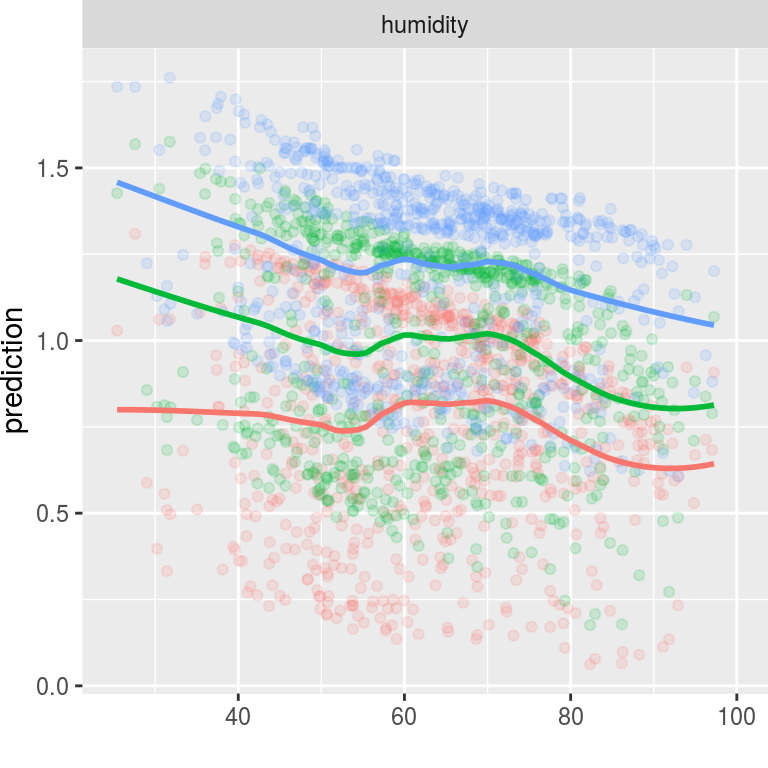
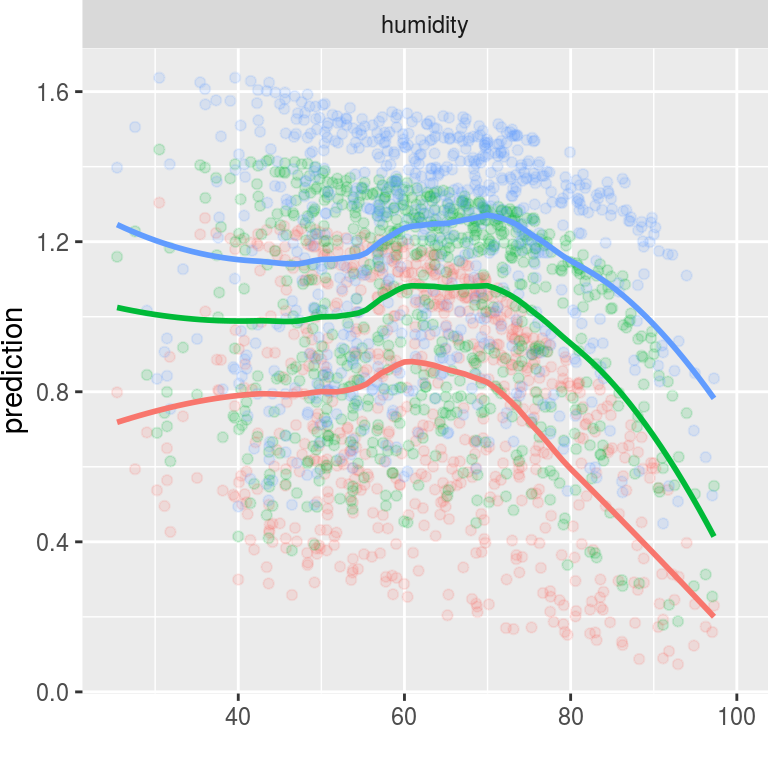
update docs

diff --git a/docs/reference/predict.vinereg.html b/docs/reference/predict.vinereg.html
@@ -59,7 +59,7 @@
       </button>
       <span class="navbar-brand">
         <a class="navbar-link" href="../index.html">vinereg</a>
-        <span class="label label-default" data-toggle="tooltip" data-placement="bottom" title="Released package">0.3.0</span>
+        <span class="label label-default" data-toggle="tooltip" data-placement="bottom" title="Released package">0.4.0</span>
       </span>
     </div>
 
@@ -139,7 +139,7 @@
     <tr>
       <th>alpha</th>
       <td><p>vector of quantile levels; <code>NA</code> predicts the mean based on an
-average of the <code>1:20 / 21</code>-quantiles.</p></td>
+average of the <code>1:10 / 11</code>-quantiles.</p></td>
     </tr>
     <tr>
       <th>uscale</th>
@@ -171,12 +171,12 @@ value of <code>alpha</code>.</p>
 (<span class='no'>fit</span> <span class='kw'>&lt;-</span> <span class='fu'><a href='vinereg.html'>vinereg</a></span>(<span class='no'>y</span> ~ <span class='no'>.</span>, <span class='no'>dat</span>))</div><div class='output co'>#&gt; D-vine regression model: y | x.2, x.1, z.1, z.2 
 #&gt; nobs = 100, edf = 26.03, cll = -13.55, caic = 79.16, cbic = 146.97 </div><div class='input'>
 <span class='co'># inspect model</span>
-<span class='fu'>summary</span>(<span class='no'>fit</span>)</div><div class='output co'>#&gt;   var      edf          cll        caic       cbic      p_value
-#&gt; 1   y 8.027953 -207.0306569  430.117220  451.03140           NA
-#&gt; 2 x.2 2.000000   76.6861624 -149.372325 -144.16198 4.961612e-34
-#&gt; 3 x.1 4.000000  115.7383306 -223.476661 -213.05598 6.348852e-49
-#&gt; 4 z.1 5.000000    0.7208254    8.558349   21.58420 9.197035e-01
-#&gt; 5 z.2 7.000000    0.3325232   13.334954   31.57114 9.985901e-01</div><div class='input'><span class='fu'><a href='plot_effects.html'>plot_effects</a></span>(<span class='no'>fit</span>)</div><div class='output co'>#&gt; <span class='message'>`geom_smooth()` using method = 'loess' and formula 'y ~ x'</span></div><div class='output co'>#&gt; <span class='warning'>Warning: pseudoinverse used at -0.005</span></div><div class='output co'>#&gt; <span class='warning'>Warning: neighborhood radius 1.005</span></div><div class='output co'>#&gt; <span class='warning'>Warning: reciprocal condition number  0</span></div><div class='output co'>#&gt; <span class='warning'>Warning: There are other near singularities as well. 1.01</span></div><div class='output co'>#&gt; <span class='warning'>Warning: pseudoinverse used at -0.005</span></div><div class='output co'>#&gt; <span class='warning'>Warning: neighborhood radius 1.005</span></div><div class='output co'>#&gt; <span class='warning'>Warning: reciprocal condition number  0</span></div><div class='output co'>#&gt; <span class='warning'>Warning: There are other near singularities as well. 1.01</span></div><div class='output co'>#&gt; <span class='warning'>Warning: pseudoinverse used at -0.005</span></div><div class='output co'>#&gt; <span class='warning'>Warning: neighborhood radius 1.005</span></div><div class='output co'>#&gt; <span class='warning'>Warning: reciprocal condition number  0</span></div><div class='output co'>#&gt; <span class='warning'>Warning: There are other near singularities as well. 1.01</span></div><div class='output co'>#&gt; <span class='warning'>Warning: pseudoinverse used at -0.005</span></div><div class='output co'>#&gt; <span class='warning'>Warning: neighborhood radius 1.005</span></div><div class='output co'>#&gt; <span class='warning'>Warning: reciprocal condition number  0</span></div><div class='output co'>#&gt; <span class='warning'>Warning: There are other near singularities as well. 1.01</span></div><div class='output co'>#&gt; <span class='warning'>Warning: pseudoinverse used at -0.005</span></div><div class='output co'>#&gt; <span class='warning'>Warning: neighborhood radius 1.005</span></div><div class='output co'>#&gt; <span class='warning'>Warning: reciprocal condition number  0</span></div><div class='output co'>#&gt; <span class='warning'>Warning: There are other near singularities as well. 1.01</span></div><div class='output co'>#&gt; <span class='warning'>Warning: pseudoinverse used at -0.005</span></div><div class='output co'>#&gt; <span class='warning'>Warning: neighborhood radius 1.005</span></div><div class='output co'>#&gt; <span class='warning'>Warning: reciprocal condition number  0</span></div><div class='output co'>#&gt; <span class='warning'>Warning: There are other near singularities as well. 1.01</span></div><div class='img'><img src='predict.vinereg-1.png' alt='' width='700' height='433' /></div><div class='input'>
+<span class='fu'>summary</span>(<span class='no'>fit</span>)</div><div class='output co'>#&gt;   var      edf          cll       caic       cbic      p_value
+#&gt; 1   y 8.027953 -207.0306569  430.11722  451.03140           NA
+#&gt; 2 x.2 2.000000   76.6861624 -149.37232 -144.16198 4.961612e-34
+#&gt; 3 x.1 4.000000  115.7383557 -223.47671 -213.05603 6.348693e-49
+#&gt; 4 z.1 5.000000    0.7206752    8.55865   21.58450 9.197371e-01
+#&gt; 5 z.2 7.000000    0.3324921   13.33502   31.57121 9.985906e-01</div><div class='input'><span class='fu'><a href='plot_effects.html'>plot_effects</a></span>(<span class='no'>fit</span>)</div><div class='output co'>#&gt; <span class='message'>`geom_smooth()` using method = 'loess' and formula 'y ~ x'</span></div><div class='output co'>#&gt; <span class='warning'>Warning: pseudoinverse used at -0.005</span></div><div class='output co'>#&gt; <span class='warning'>Warning: neighborhood radius 1.005</span></div><div class='output co'>#&gt; <span class='warning'>Warning: reciprocal condition number  0</span></div><div class='output co'>#&gt; <span class='warning'>Warning: There are other near singularities as well. 1.01</span></div><div class='output co'>#&gt; <span class='warning'>Warning: pseudoinverse used at -0.005</span></div><div class='output co'>#&gt; <span class='warning'>Warning: neighborhood radius 1.005</span></div><div class='output co'>#&gt; <span class='warning'>Warning: reciprocal condition number  0</span></div><div class='output co'>#&gt; <span class='warning'>Warning: There are other near singularities as well. 1.01</span></div><div class='output co'>#&gt; <span class='warning'>Warning: pseudoinverse used at -0.005</span></div><div class='output co'>#&gt; <span class='warning'>Warning: neighborhood radius 1.005</span></div><div class='output co'>#&gt; <span class='warning'>Warning: reciprocal condition number  0</span></div><div class='output co'>#&gt; <span class='warning'>Warning: There are other near singularities as well. 1.01</span></div><div class='output co'>#&gt; <span class='warning'>Warning: pseudoinverse used at -0.005</span></div><div class='output co'>#&gt; <span class='warning'>Warning: neighborhood radius 1.005</span></div><div class='output co'>#&gt; <span class='warning'>Warning: reciprocal condition number  0</span></div><div class='output co'>#&gt; <span class='warning'>Warning: There are other near singularities as well. 1.01</span></div><div class='output co'>#&gt; <span class='warning'>Warning: pseudoinverse used at -0.005</span></div><div class='output co'>#&gt; <span class='warning'>Warning: neighborhood radius 1.005</span></div><div class='output co'>#&gt; <span class='warning'>Warning: reciprocal condition number  0</span></div><div class='output co'>#&gt; <span class='warning'>Warning: There are other near singularities as well. 1.01</span></div><div class='output co'>#&gt; <span class='warning'>Warning: pseudoinverse used at -0.005</span></div><div class='output co'>#&gt; <span class='warning'>Warning: neighborhood radius 1.005</span></div><div class='output co'>#&gt; <span class='warning'>Warning: reciprocal condition number  0</span></div><div class='output co'>#&gt; <span class='warning'>Warning: There are other near singularities as well. 1.01</span></div><div class='img'><img src='predict.vinereg-1.png' alt='' width='700' height='433' /></div><div class='input'>
 <span class='co'># model predictions</span>
 <span class='no'>mu_hat</span>  <span class='kw'>&lt;-</span> <span class='fu'>predict</span>(<span class='no'>fit</span>, <span class='kw'>newdata</span> <span class='kw'>=</span> <span class='no'>dat</span>, <span class='kw'>alpha</span> <span class='kw'>=</span> <span class='fl'>NA</span>)          <span class='co'># mean</span>
 <span class='no'>med_hat</span> <span class='kw'>&lt;-</span> <span class='fu'>predict</span>(<span class='no'>fit</span>, <span class='kw'>newdata</span> <span class='kw'>=</span> <span class='no'>dat</span>, <span class='kw'>alpha</span> <span class='kw'>=</span> <span class='fl'>0.5</span>)         <span class='co'># median</span>

diff --git a/docs/reference/vinereg.html b/docs/reference/vinereg.html
@@ -63,7 +63,7 @@ make the model estimate inconsistent, predictions are usually still reasonable."
       </button>
       <span class="navbar-brand">
         <a class="navbar-link" href="../index.html">vinereg</a>
-        <span class="label label-default" data-toggle="tooltip" data-placement="bottom" title="Released package">0.3.0</span>
+        <span class="label label-default" data-toggle="tooltip" data-placement="bottom" title="Released package">0.4.0</span>
       </span>
     </div>
 
@@ -219,9 +219,9 @@ Computational Statistics and Data Analysis, 110, 1-18</p>
 <span class='fu'>summary</span>(<span class='no'>fit</span>)</div><div class='output co'>#&gt;   var      edf          cll       caic       cbic      p_value
 #&gt; 1   y 13.24142 -220.6242023  467.73125  502.22741           NA
 #&gt; 2 x.2  2.00000   88.1504436 -172.30089 -167.09055 5.208933e-39
-#&gt; 3 x.1  3.00000  124.9348283 -243.86966 -236.05415 6.982614e-54
-#&gt; 4 z.1  6.00000    0.2069227   11.58615   27.21718 9.987346e-01
-#&gt; 5 z.2  6.00000    0.6247132   10.75057   26.38159 9.743730e-01</div><div class='input'><span class='fu'><a href='plot_effects.html'>plot_effects</a></span>(<span class='no'>fit</span>)</div><div class='output co'>#&gt; <span class='message'>`geom_smooth()` using method = 'loess' and formula 'y ~ x'</span></div><div class='output co'>#&gt; <span class='warning'>Warning: pseudoinverse used at -0.005</span></div><div class='output co'>#&gt; <span class='warning'>Warning: neighborhood radius 1.005</span></div><div class='output co'>#&gt; <span class='warning'>Warning: reciprocal condition number  0</span></div><div class='output co'>#&gt; <span class='warning'>Warning: There are other near singularities as well. 1.01</span></div><div class='output co'>#&gt; <span class='warning'>Warning: pseudoinverse used at -0.005</span></div><div class='output co'>#&gt; <span class='warning'>Warning: neighborhood radius 1.005</span></div><div class='output co'>#&gt; <span class='warning'>Warning: reciprocal condition number  0</span></div><div class='output co'>#&gt; <span class='warning'>Warning: There are other near singularities as well. 1.01</span></div><div class='output co'>#&gt; <span class='warning'>Warning: pseudoinverse used at -0.005</span></div><div class='output co'>#&gt; <span class='warning'>Warning: neighborhood radius 1.005</span></div><div class='output co'>#&gt; <span class='warning'>Warning: reciprocal condition number  0</span></div><div class='output co'>#&gt; <span class='warning'>Warning: There are other near singularities as well. 1.01</span></div><div class='output co'>#&gt; <span class='warning'>Warning: at  -0.005</span></div><div class='output co'>#&gt; <span class='warning'>Warning: radius  2.5e-05</span></div><div class='output co'>#&gt; <span class='warning'>Warning: all data on boundary of neighborhood. make span bigger</span></div><div class='output co'>#&gt; <span class='warning'>Warning: pseudoinverse used at -0.005</span></div><div class='output co'>#&gt; <span class='warning'>Warning: neighborhood radius 0.005</span></div><div class='output co'>#&gt; <span class='warning'>Warning: reciprocal condition number  1</span></div><div class='output co'>#&gt; <span class='warning'>Warning: There are other near singularities as well. 1.01</span></div><div class='output co'>#&gt; <span class='warning'>Warning: zero-width neighborhood. make span bigger</span></div><div class='output co'>#&gt; <span class='warning'>Warning: Computation failed in `stat_smooth()`:</span>
+#&gt; 3 x.1  3.00000  124.9348097 -243.86962 -236.05411 6.982744e-54
+#&gt; 4 z.1  6.00000    0.2069543   11.58609   27.21711 9.987341e-01
+#&gt; 5 z.2  6.00000    0.6247217   10.75056   26.38158 9.743722e-01</div><div class='input'><span class='fu'><a href='plot_effects.html'>plot_effects</a></span>(<span class='no'>fit</span>)</div><div class='output co'>#&gt; <span class='message'>`geom_smooth()` using method = 'loess' and formula 'y ~ x'</span></div><div class='output co'>#&gt; <span class='warning'>Warning: pseudoinverse used at -0.005</span></div><div class='output co'>#&gt; <span class='warning'>Warning: neighborhood radius 1.005</span></div><div class='output co'>#&gt; <span class='warning'>Warning: reciprocal condition number  0</span></div><div class='output co'>#&gt; <span class='warning'>Warning: There are other near singularities as well. 1.01</span></div><div class='output co'>#&gt; <span class='warning'>Warning: pseudoinverse used at -0.005</span></div><div class='output co'>#&gt; <span class='warning'>Warning: neighborhood radius 1.005</span></div><div class='output co'>#&gt; <span class='warning'>Warning: reciprocal condition number  0</span></div><div class='output co'>#&gt; <span class='warning'>Warning: There are other near singularities as well. 1.01</span></div><div class='output co'>#&gt; <span class='warning'>Warning: pseudoinverse used at -0.005</span></div><div class='output co'>#&gt; <span class='warning'>Warning: neighborhood radius 1.005</span></div><div class='output co'>#&gt; <span class='warning'>Warning: reciprocal condition number  0</span></div><div class='output co'>#&gt; <span class='warning'>Warning: There are other near singularities as well. 1.01</span></div><div class='output co'>#&gt; <span class='warning'>Warning: at  -0.005</span></div><div class='output co'>#&gt; <span class='warning'>Warning: radius  2.5e-05</span></div><div class='output co'>#&gt; <span class='warning'>Warning: all data on boundary of neighborhood. make span bigger</span></div><div class='output co'>#&gt; <span class='warning'>Warning: pseudoinverse used at -0.005</span></div><div class='output co'>#&gt; <span class='warning'>Warning: neighborhood radius 0.005</span></div><div class='output co'>#&gt; <span class='warning'>Warning: reciprocal condition number  1</span></div><div class='output co'>#&gt; <span class='warning'>Warning: There are other near singularities as well. 1.01</span></div><div class='output co'>#&gt; <span class='warning'>Warning: zero-width neighborhood. make span bigger</span></div><div class='output co'>#&gt; <span class='warning'>Warning: Computation failed in `stat_smooth()`:</span>
 #&gt; <span class='warning'>NA/NaN/Inf in foreign function call (arg 5)</span></div><div class='img'><img src='vinereg-1.png' alt='' width='700' height='433' /></div><div class='input'>
 <span class='co'># model predictions</span>
 <span class='no'>mu_hat</span>  <span class='kw'>&lt;-</span> <span class='fu'>predict</span>(<span class='no'>fit</span>, <span class='kw'>newdata</span> <span class='kw'>=</span> <span class='no'>dat</span>, <span class='kw'>alpha</span> <span class='kw'>=</span> <span class='fl'>NA</span>)          <span class='co'># mean</span>

diff --git a/docs/index.html b/docs/index.html
@@ -33,7 +33,7 @@
       </button>
       <span class="navbar-brand">
         <a class="navbar-link" href="index.html">vinereg</a>
-        <span class="label label-default" data-toggle="tooltip" data-placement="bottom" title="Released package">0.3.0</span>
+        <span class="label label-default" data-toggle="tooltip" data-placement="bottom" title="Released package">0.4.0</span>
       </span>
     </div>
 
@@ -119,22 +119,22 @@ mtcars[[<span class="st">"am"</span>]] &lt;-<span class="st"> </span><span class
 
 <span class="co"># fit model</span>
 (fit &lt;-<span class="st"> </span><span class="kw"><a href="reference/vinereg.html">vinereg</a></span>(mpg <span class="op">~</span><span class="st"> </span>., <span class="dt">data =</span> mtcars))
-<span class="co">#&gt; D-vine regression model: mpg | disp, hp, wt, cyl, am.1, gear, qsec, drat, carb, vs </span>
-<span class="co">#&gt; nobs = 32, edf = 94, cll = -58.62, caic = 305.23, cbic = 443.01</span>
+<span class="co">#&gt; D-vine regression model: mpg | disp, hp, am.1, gear, carb, wt, cyl, drat, vs, qsec </span>
+<span class="co">#&gt; nobs = 32, edf = 97, cll = -53.64, caic = 301.29, cbic = 443.47</span>
 
 <span class="kw">summary</span>(fit)
 <span class="co">#&gt;     var     edf         cll       caic       cbic      p_value</span>
 <span class="co">#&gt; 1   mpg 3.2e-11 -98.5927195 197.185439 197.185439           NA</span>
 <span class="co">#&gt; 2  disp 2.0e+00  29.5342816 -55.068563 -52.137091 1.490817e-13</span>
 <span class="co">#&gt; 3    hp 3.0e+00   2.3323113   1.335377   5.732585 1.980680e-01</span>
-<span class="co">#&gt; 4    wt 5.0e+00   2.1311112   5.737778  13.066457 5.123126e-01</span>
-<span class="co">#&gt; 5   cyl 6.0e+00   0.9693088  10.061382  18.855798 9.252564e-01</span>
-<span class="co">#&gt; 6  am.1 1.0e+01   1.1281264  17.743747  32.401106 9.939721e-01</span>
-<span class="co">#&gt; 7  gear 8.0e+00   1.8733336  12.253333  23.979220 8.792262e-01</span>
-<span class="co">#&gt; 8  qsec 1.3e+01   0.4839598  25.032080  44.086647 9.999969e-01</span>
-<span class="co">#&gt; 9  drat 1.4e+01   0.9098683  26.180263  46.700566 9.999536e-01</span>
-<span class="co">#&gt; 10 carb 1.6e+01   0.1488835  31.702233  55.154008 1.000000e+00</span>
-<span class="co">#&gt; 11   vs 1.7e+01   0.4643179  33.071364  57.988875 1.000000e+00</span>
+<span class="co">#&gt; 4  am.1 5.0e+00   3.7942851   2.411430   9.740109 1.804156e-01</span>
+<span class="co">#&gt; 5  gear 7.0e+00   3.1502384   7.699523  17.959675 5.051348e-01</span>
+<span class="co">#&gt; 6  carb 9.0e+00   2.6022129  12.795574  25.987197 8.161362e-01</span>
+<span class="co">#&gt; 7    wt 1.1e+01   1.7728358  18.454328  34.577423 9.813775e-01</span>
+<span class="co">#&gt; 8   cyl 1.3e+01   0.8955617  24.208877  43.263443 9.998792e-01</span>
+<span class="co">#&gt; 9  drat 1.4e+01   0.5427778  26.914444  47.434747 9.999983e-01</span>
+<span class="co">#&gt; 10   vs 1.6e+01   0.0810181  31.837964  55.289738 1.000000e+00</span>
+<span class="co">#&gt; 11 qsec 1.7e+01   0.2422327  33.515535  58.433045 1.000000e+00</span>
 
 <span class="co"># show marginal effects for all selected variables</span>
 <span class="kw"><a href="reference/plot_effects.html">plot_effects</a></span>(fit)
@@ -144,10 +144,10 @@ mtcars[[<span class="st">"am"</span>]] &lt;-<span class="st"> </span><span class
 <span class="co"># predict mean and median</span>
 <span class="kw">head</span>(<span class="kw">predict</span>(fit, mtcars, <span class="dt">alpha =</span> <span class="kw">c</span>(<span class="ot">NA</span>, <span class="fl">0.5</span>)), <span class="dv">4</span>)
 <span class="co">#&gt;       mean      0.5</span>
-<span class="co">#&gt; 1 21.57121 21.38293</span>
-<span class="co">#&gt; 2 21.35704 21.22061</span>
-<span class="co">#&gt; 3 25.30125 25.05928</span>
-<span class="co">#&gt; 4 19.76451 19.63392</span></code></pre></div>
+<span class="co">#&gt; 1 22.45385 22.11842</span>
+<span class="co">#&gt; 2 22.21468 21.88954</span>
+<span class="co">#&gt; 3 24.97617 24.73290</span>
+<span class="co">#&gt; 4 20.29704 20.26773</span></code></pre></div>
 </div>
 <div id="vignettes" class="section level2">
 <h2 class="hasAnchor">

diff --git a/docs/articles/abalone-example.html b/docs/articles/abalone-example.html
@@ -29,7 +29,7 @@
       </button>
       <span class="navbar-brand">
         <a class="navbar-link" href="../index.html">vinereg</a>
-        <span class="label label-default" data-toggle="tooltip" data-placement="bottom" title="Released package">0.3.0</span>
+        <span class="label label-default" data-toggle="tooltip" data-placement="bottom" title="Released package">0.4.0</span>
       </span>
     </div>
 
@@ -208,8 +208,8 @@ plot_marginal_effects &lt;-<span class="st"> </span><span class="cf">function</s
     <span class="dt">family_set =</span> <span class="st">"nonpar"</span>,
     <span class="dt">selcrit =</span> <span class="st">"aic"</span>
 ))</code></pre></div>
-<pre><code>## D-vine regression model: whole | length, height 
-## nobs = 1306, edf = 128.58, cll = 1145.67, caic = -2034.18, cbic = -1368.82</code></pre>
+<pre><code>## D-vine regression model: whole | diameter, length 
+## nobs = 1306, edf = 153.82, cll = 1112.1, caic = -1916.56, cbic = -1120.61</code></pre>
 <div class="sourceCode"><pre class="sourceCode r"><code class="sourceCode r"><span class="kw">contour</span>(fit_vine_np<span class="op">$</span>vine)</code></pre></div>
 <p><img src="abalone-example_files/figure-html/unnamed-chunk-12-1.png" width="441.6"></p>
 <p>Now only the length and height variables are selected as predictors. Let’s have a look at the marginal effects.</p>
@@ -231,7 +231,7 @@ plot_marginal_effects &lt;-<span class="st"> </span><span class="cf">function</s
     <span class="dt">selcrit =</span> <span class="st">"aic"</span>
 ))</code></pre></div>
 <pre><code>## D-vine regression model: rings | shell, shucked 
-## nobs = 1306, edf = 103.44, cll = -2742.1, caic = 5691.1, cbic = 6226.4</code></pre>
+## nobs = 1306, edf = 111.07, cll = -2762.59, caic = 5747.3, cbic = 6322.03</code></pre>
 <div class="sourceCode"><pre class="sourceCode r"><code class="sourceCode r"><span class="kw"><a href="../reference/plot_effects.html">plot_effects</a></span>(fit_disc)</code></pre></div>
 <pre><code>## `geom_smooth()` using method = 'loess' and formula 'y ~ x'</code></pre>
 <p><img src="abalone-example_files/figure-html/unnamed-chunk-14-1.png" width="451.2"></p>

diff --git a/docs/news/index.html b/docs/news/index.html
@@ -56,7 +56,7 @@
       </button>
       <span class="navbar-brand">
         <a class="navbar-link" href="../index.html">vinereg</a>
-        <span class="label label-default" data-toggle="tooltip" data-placement="bottom" title="Released package">0.3.0</span>
+        <span class="label label-default" data-toggle="tooltip" data-placement="bottom" title="Released package">0.4.0</span>
       </span>
     </div>
 
@@ -109,9 +109,20 @@
       
     </div>
 
+    <div id="vinereg-0-4-0" class="section level1">
+<h1 class="page-header">
+<a href="#vinereg-0-4-0" class="anchor"></a>vinereg 0.4.0<small> Unreleased </small>
+</h1>
+<p>BUG FIXES</p>
+<ul>
+<li><p>Fix handling of <code>uscale</code> in <code><a href="../reference/predict.vinereg.html">fitted.vinereg()</a></code>.</p></li>
+<li><p>Fix handling of <code>mult</code> parameter for pair-copula fits in <code><a href="../reference/vinereg.html">vinereg()</a></code>.</p></li>
+<li><p>Fix orientation of asymmetric pair-copulas.</p></li>
+</ul>
+</div>
     <div id="vinereg-0-3-0" class="section level1">
 <h1 class="page-header">
-<a href="#vinereg-0-3-0" class="anchor"></a>vinereg 0.3.0<small> Unreleased </small>
+<a href="#vinereg-0-3-0" class="anchor"></a>vinereg 0.3.0<small> 2018-06-02 </small>
 </h1>
 <p>DEPENDS</p>
 <ul>
@@ -138,6 +149,7 @@
     <div id="tocnav">
       <h2>Contents</h2>
       <ul class="nav nav-pills nav-stacked">
+        <li><a href="#vinereg-0-4-0">0.4.0</a></li>
         <li><a href="#vinereg-0-3-0">0.3.0</a></li>
         <li><a href="#vinereg-0-2-0">0.2.0</a></li>
       </ul>

diff --git a/docs/reference/plot_effects.html b/docs/reference/plot_effects.html
@@ -60,7 +60,7 @@ is meant with respect to all other variables." />
       </button>
       <span class="navbar-brand">
         <a class="navbar-link" href="../index.html">vinereg</a>
-        <span class="label label-default" data-toggle="tooltip" data-placement="bottom" title="Released package">0.3.0</span>
+        <span class="label label-default" data-toggle="tooltip" data-placement="bottom" title="Released package">0.4.0</span>
       </span>
     </div>
 

diff --git a/docs/articles/bike-rental.html b/docs/articles/bike-rental.html
@@ -29,7 +29,7 @@
       </button>
       <span class="navbar-brand">
         <a class="navbar-link" href="../index.html">vinereg</a>
-        <span class="label label-default" data-toggle="tooltip" data-placement="bottom" title="Released package">0.3.0</span>
+        <span class="label label-default" data-toggle="tooltip" data-placement="bottom" title="Released package">0.4.0</span>
       </span>
     </div>
 

diff --git a/docs/articles/index.html b/docs/articles/index.html
@@ -56,7 +56,7 @@
       </button>
       <span class="navbar-brand">
         <a class="navbar-link" href="../index.html">vinereg</a>
-        <span class="label label-default" data-toggle="tooltip" data-placement="bottom" title="Released package">0.3.0</span>
+        <span class="label label-default" data-toggle="tooltip" data-placement="bottom" title="Released package">0.4.0</span>
       </span>
     </div>
 

diff --git a/docs/reference/index.html b/docs/reference/index.html
@@ -56,7 +56,7 @@
       </button>
       <span class="navbar-brand">
         <a class="navbar-link" href="../index.html">vinereg</a>
-        <span class="label label-default" data-toggle="tooltip" data-placement="bottom" title="Released package">0.3.0</span>
+        <span class="label label-default" data-toggle="tooltip" data-placement="bottom" title="Released package">0.4.0</span>
       </span>
     </div>
 

diff --git a/docs/LICENSE-text.html b/docs/LICENSE-text.html
@@ -56,7 +56,7 @@
       </button>
       <span class="navbar-brand">
         <a class="navbar-link" href="index.html">vinereg</a>
-        <span class="label label-default" data-toggle="tooltip" data-placement="bottom" title="Released package">0.3.0</span>
+        <span class="label label-default" data-toggle="tooltip" data-placement="bottom" title="Released package">0.4.0</span>
       </span>
     </div>
 

diff --git a/docs/authors.html b/docs/authors.html
@@ -56,7 +56,7 @@
       </button>
       <span class="navbar-brand">
         <a class="navbar-link" href="index.html">vinereg</a>
-        <span class="label label-default" data-toggle="tooltip" data-placement="bottom" title="Released package">0.3.0</span>
+        <span class="label label-default" data-toggle="tooltip" data-placement="bottom" title="Released package">0.4.0</span>
       </span>
     </div>
 

diff --git a/README.md b/README.md
@@ -42,22 +42,22 @@ mtcars[["am"]] <- as.factor(mtcars[["am"]])
 
 # fit model
 (fit <- vinereg(mpg ~ ., data = mtcars))
-#> D-vine regression model: mpg | disp, cyl, wt, carb, gear, hp, qsec, vs, am.1, drat 
-#> nobs = 32, edf = 91, cll = -53.89, caic = 289.78, cbic = 423.17
+#> D-vine regression model: mpg | disp, hp, gear, carb, wt, vs, drat, qsec, cyl, am.1 
+#> nobs = 32, edf = 92, cll = -51.59, caic = 287.18, cbic = 422.02
 
 summary(fit)
-#>     var     edf         cll         caic        cbic      p_value
-#> 1   mpg 3.2e-11 -98.5927195 197.18543898 197.1854390           NA
-#> 2  disp 2.0e+00  29.5342816 -55.06856318 -52.1370914 1.490817e-13
-#> 3   cyl 3.0e+00   5.3128672  -4.62573447  -0.2285268 1.393178e-02
-#> 4    wt 4.0e+00   4.0383425  -0.07668494   5.7862587 8.880917e-02
-#> 5  carb 7.0e+00   1.5845952  10.83080969  21.0909610 8.689220e-01
-#> 6  gear 1.0e+01   1.2307931  17.53841376  32.1957728 9.914238e-01
-#> 7    hp 1.0e+01   1.5297458  16.94050837  31.5978674 9.799891e-01
-#> 8  qsec 1.3e+01   0.4923380  25.01532409  44.0698908 9.999965e-01
-#> 9    vs 1.2e+01   0.5492991  22.90140188  40.4902327 9.999761e-01
-#> 10 am.1 1.5e+01   0.2353038  29.52939230  51.5154308 1.000000e+00
-#> 11 drat 1.5e+01   0.1931010  29.61379802  51.5998366 1.000000e+00
+#>     var     edf         cll       caic       cbic      p_value
+#> 1   mpg 3.2e-11 -98.5927195 197.185439 197.185439           NA
+#> 2  disp 2.0e+00  29.5342816 -55.068563 -52.137091 1.490817e-13
+#> 3    hp 3.0e+00   2.3323113   1.335377   5.732585 1.980680e-01
+#> 4  gear 4.0e+00   2.6417293   2.716541   8.579485 2.594294e-01
+#> 5  carb 8.0e+00   4.3416393   7.316721  19.042609 3.697145e-01
+#> 6    wt 7.0e+00   1.6074265  10.785147  21.045298 8.644408e-01
+#> 7    vs 7.0e+00   1.3034954  11.393009  21.653161 9.188274e-01
+#> 8  drat 1.2e+01   1.4321371  21.135726  38.724557 9.964287e-01
+#> 9  qsec 1.5e+01   1.2227564  27.554487  49.540526 9.998896e-01
+#> 10  cyl 1.7e+01   1.8528062  30.294388  55.211898 9.996929e-01
+#> 11 am.1 1.7e+01   0.7366123  32.526775  57.444286 9.999997e-01
 
 # show marginal effects for all selected variables
 plot_effects(fit)
@@ -71,10 +71,10 @@ plot_effects(fit)
 # predict mean and median
 head(predict(fit, mtcars, alpha = c(NA, 0.5)), 4)
 #>       mean      0.5
-#> 1 19.12384 19.01768
-#> 2 19.14141 19.04763
-#> 3 28.28939 28.52435
-#> 4 21.30317 20.99698
+#> 1 20.68862 20.66071
+#> 2 20.50411 20.49184
+#> 3 25.70142 25.66380
+#> 4 20.99347 20.97258
 ```
 
 Vignettes
